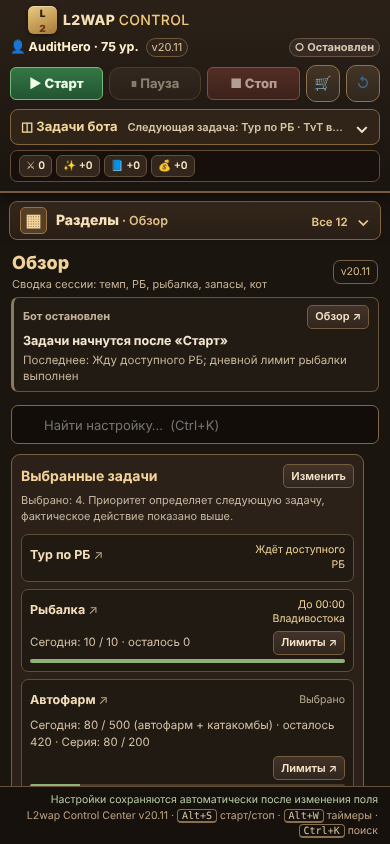
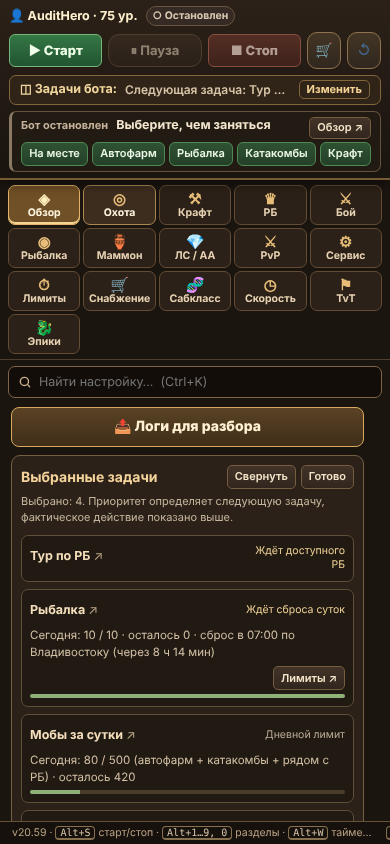
Браузерные проверки под снятый бюджет суммона и 17-й раздел меню
- v1015-warlock-mv3: случай {budget} → {price} (ворота цены одного набора).
- v2043-firefox-dock-commands: цена набора 1, чтобы бот не уходил в город.
- v718-ui-browser: в списке разделов «Эпики» (#382).
- WORKLOG: итог полного прогона смоуков.

Claude-Session: https://claude.ai/code/session_01QBmYjijYvdFhxFJFw98Xsu

diff --git a/tests/v718-ui-browser.py b/tests/v718-ui-browser.py
@@ -9,7 +9,7 @@ with sync_playwright() as p:
  browser=p.chromium.launch(headless=True,executable_path=__import__('os').environ.get('CHROMIUM','/usr/bin/chromium'),args=['--no-sandbox','--disable-dev-shm-usage'])
  # 20.54 (прогон смоуков 23.10): разделов уже не 6 — 20.18 (10), «Лимиты»/«Снабжение» 19.10, «Сабкласс» 20.43, «Крафт» PR #358,
  # «Скорость» PR #371; «Автозаточка» скрыта решением игрока 19.10 (кнопка hidden). Проверяем точный список и раскладку по решениям после 20.13.
- NAV=['overview','hunt','craft','rb','panel','enchant','fish','mammon','lifestone','pvp','svc','limits','supply','sub','speed','tvt']  # 23.10 (#378): «TvT» — отдельный раздел в конце
+ NAV=['overview','hunt','craft','rb','panel','enchant','fish','mammon','lifestone','pvp','svc','limits','supply','sub','speed','tvt','epic']  # 23.10 (#378): «TvT» — отдельный раздел; 20.54 (#382): «Эпики» — в конце
  VISIBLE=[t for t in NAV if t!='enchant']
  for width,height,mode in [(760,680,'wide'),(375,740,'dock')]:
   page=browser.new_page(viewport={'width':width,'height':height},device_scale_factor=1)

diff --git a/docs/WORKLOG.md b/docs/WORKLOG.md
@@ -7,7 +7,7 @@
 - Кольцо (лог 12:10, John «есть АК кольцо, оно ЛУЧШЕ, не одевает сам»): «одеваю лучшее» после смены Maestro → Arcana Lord сняло Ring of Queen Ant +12 (B, эпик) ради Кільце фантому A — бижутерия сравнивалась сначала по грейду. `subgo.planGear`: эпическая бижутерия (строки `epicExtraLinesUk` каталога или ID 6656–6662/8191) идёт первой, потом грейд и сила. Тест `tests/v2060-epic-ring.test.js` (5).
 - Заряды (лог 12:17, John «на коте … активировал физические соски»): свой POST надевания сабкласса идёт мимо hook.js, в памяти осталось «надето: Клановий штормер» (пика крафтера) — `shotSlotSwap` убрал благословенные заряды духа S и поставил заряды души S. `subgo.gear` передаёт надетое оружие из свежего снимка в `weaponEquipNote` (геттер `equipNote`); `keepShots` сверяет с сервером и тип зарядов, как грейд (#373), подтверждение держит 60 с. Тесты `tests/v2060-shot-type.test.js` (4) и шаг в `v2043-subgo`.
 - Бафф суммона (лог 22:13–22:15: тур РБ ждал «Бюджет автобафа исчерпан»; John «Убери вообще лимит на Бафф суммонов»): общий бюджет `petFullBudget` снят — не читается и не входит в ключ ожидания, поле и «Осталось бюджета» убраны из меню, «Сбросить счётчик расхода» вместо «бюджета». Остались цена одного набора (`petFullMaxPrice`), резерв адены и запрет повторной оплаты при неизвестном исходе (до конца возможного срока). Обновлены тесты warlock-archive/backend/peer/town-gate/recheck, panther-full-buff, warlock-ui-browser.
-- Проверки: Node 653 PASS/0 FAIL, `node --check`, envcheck PASS; браузерные смоуки — в описании PR. ZIP не собирался (сборка 20.60 — следующим шагом по просьбе John).
+- Проверки: Node 653 PASS/0 FAIL, `node --check`, envcheck PASS; полный `tests/tools/smokes.sh` (с `PLAYWRIGHT_NODE=/opt/node-tools/node_modules/playwright`, иначе .cjs-файлы не находят playwright) — 193 проверки, после правок все PASS. Под снятый бюджет обновлены v1015-warlock-mv3 (случай `{price}`) и v2043-firefox-dock-commands (цена набора 1); v718-ui-browser ждал 16 разделов, а с #382 их 17 (`epic`) — список дополнен. Firefox-смоук пропущен (нет FIREFOX/GECKODRIVER). ZIP не собирался (сборка 20.60 — следующим шагом по просьбе John).
 
 ## 24.10.2026, 22:10 UTC+10 — Claude — разбор логов 11:51/11:52 (тред «Исправить баги по логам 11:52»)
 
